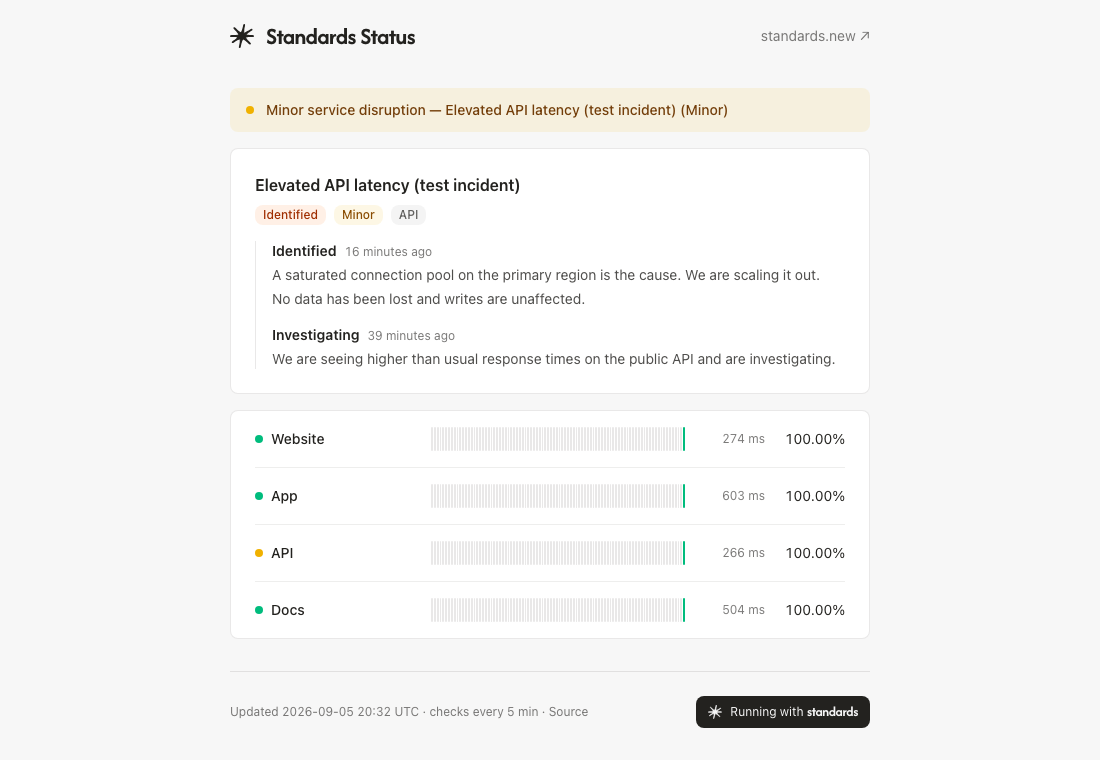
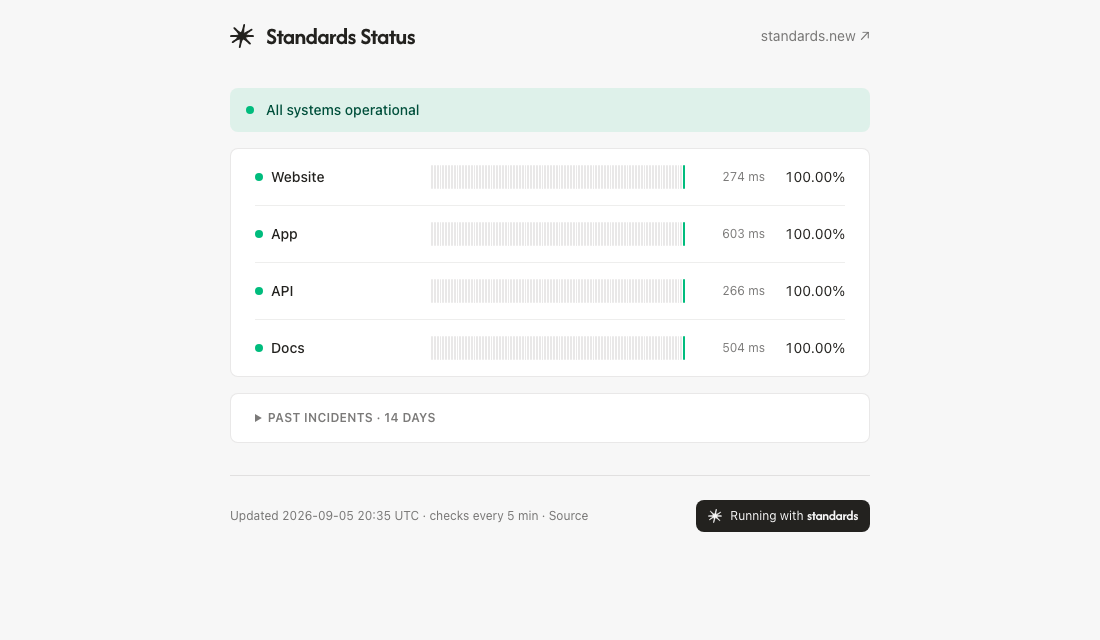
feat(schema): plural labels on every object; green screenshot

diff --git a/src/standards/schema.ts b/src/standards/schema.ts
@@ -17,6 +17,7 @@ import {
 import { IMPACT_OPTIONS, INCIDENT_STATUS_OPTIONS } from "./options";
 
 export const service = object({ name: "services", label: "Service" })
+  .pluralLabel("Services")
   .icon("globe")
   .description("A URL the status page pings every five minutes.")
   .attribute(text({ name: "name", label: "Name" }).icon("globe").required())
@@ -54,6 +55,7 @@ export const service = object({ name: "services", label: "Service" })
   .labelExpression("{{ name }}");
 
 export const check = object({ name: "checks", label: "Check" })
+  .pluralLabel("Checks")
   .icon("activity")
   .description("One ping result. Written by the status page, kept for seven days.")
   .attribute(
@@ -73,6 +75,7 @@ export const check = object({ name: "checks", label: "Check" })
   .labelExpression("{{ checkedAt }}");
 
 export const dailyStat = object({ name: "daily-stats", label: "Daily stat" })
+  .pluralLabel("Daily stats")
   .icon("chart-bar")
   .description("One row per service and UTC day, feeding the 90-day uptime bars.")
   .attribute(
@@ -86,6 +89,7 @@ export const dailyStat = object({ name: "daily-stats", label: "Daily stat" })
   .labelExpression("{{ day }}");
 
 export const incident = object({ name: "incidents", label: "Incident" })
+  .pluralLabel("Incidents")
   .icon("flame")
   .description("Something you are working on. Shown on the public page until resolved.")
   .attribute(text({ name: "title", label: "Title" }).icon("flame").required())
@@ -121,6 +125,7 @@ export const incident = object({ name: "incidents", label: "Incident" })
   .labelExpression("{{ title }}");
 
 export const incidentUpdate = object({ name: "incident-updates", label: "Incident update" })
+  .pluralLabel("Incident updates")
   .icon("message")
   .description("A dated message in an incident's timeline, newest first on the public page.")
   .attribute(

diff --git a/src/standards/schema.test.ts b/src/standards/schema.test.ts
@@ -92,3 +92,15 @@ describe("relatedIds", () => {
     expect(relatedIds("a")).toEqual([]);
   });
 });
+
+describe("object presentation", () => {
+  it("gives every object an icon and a plural label", () => {
+    expect(statusSource.objects.map((o) => [o.name, o.icon, o.pluralLabel])).toEqual([
+      ["services", "globe", "Services"],
+      ["checks", "activity", "Checks"],
+      ["daily-stats", "chart-bar", "Daily stats"],
+      ["incidents", "flame", "Incidents"],
+      ["incident-updates", "message", "Incident updates"],
+    ]);
+  });
+});
